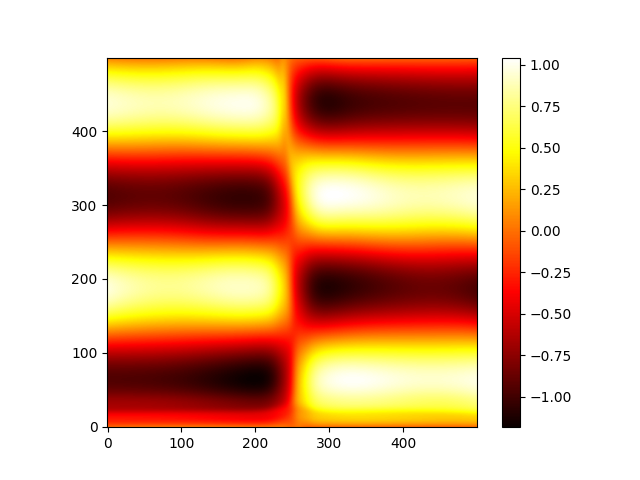
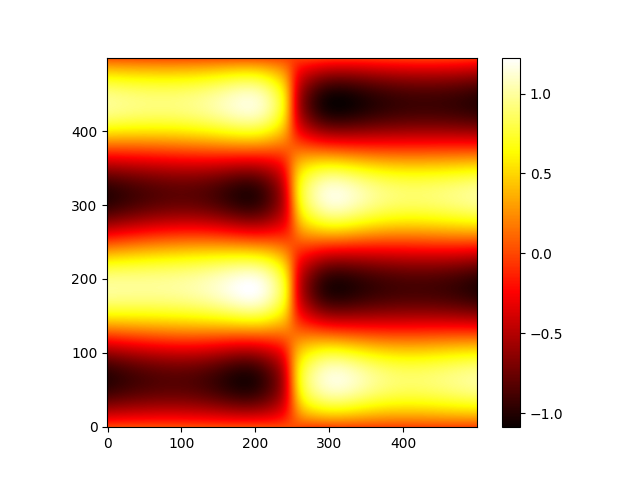
几乎已经完全实现了多态

diff --git a/VPINN/VPINN2d.py b/VPINN/VPINN2d.py
@@ -2,7 +2,7 @@ import torch
 import net_class
 import functools
 import inspect
-import re
+import regex as re
 from tqdm import tqdm
 from Utilities.Integral2d import quad_integral
 from Utilities.lengendre import test_func
@@ -21,7 +21,6 @@ class VPINN:
         self.layer_sizes = layer_sizes
         self.load = load
         if load:
-            # self.net = MLP(layer_sizes).to(device)
             self.net = torch.load('./model/'+load).to(device)
         else:
             self.net = MLP(layer_sizes).to(device)
@@ -55,7 +54,11 @@ class VPINN:
         
         # check whether the laplace function is used
         source_code = inspect.getsource(pde)
-        laplace_term_pattern = r'([-+]? *[\w.]* *\*? *VPINN.laplace\([^)]*\) *(?:\*\* *[\w.]*)?)'
+        
+         
+        laplace_term_pattern = r'\bLAPLACE_TERM\(((?:[^()]|\((?1)\))*)\)'
+        # r'LAPLACE_TERM\(([^"]*)\)'
+        
         laplace_term = re.search(laplace_term_pattern, source_code)
         calls_laplace = bool(laplace_term)
         self.calls_laplace = calls_laplace
@@ -74,7 +77,7 @@ class VPINN:
             x = func_args["x"]
             y = func_args["y"]
             u = func_args["u"]
-            return eval(laplace_term.replace('VPINN.laplace(x, y, u)', 'self.Laplace(x_, y_, u_)'), globals(), {'x_': x, 'y_': y, 'u_': u, 'self': self})
+            return eval(laplace_term.replace('VPINN.laplace(x, y, u)', 'quad_integral.integral(self.Laplace)'), globals(), {'self': self})
         return wrapper
 
     def index2frame(self, index, grid_num):
@@ -91,6 +94,10 @@ class VPINN:
     @staticmethod
     def laplace(x, y, u):
         return torch.zeros_like(x)
+    
+    @staticmethod
+    def LAPLACE_TERM(term):
+        return torch.zeros_like(term)
     
     @staticmethod
     def gradients(u, x, order=1):
@@ -136,7 +143,7 @@ class VPINN:
         if self.calls_laplace == False:
             int1 = quad_integral.integral(self.lhsWrapper) * ((1 / self.grid_num) ** 2)
         else:
-            laplace_conponent = quad_integral.integral(self.pde1) * ((1 / self.grid_num) ** 2)
+            laplace_conponent = self.pde1(None, None, None) * ((1 / self.grid_num) ** 2)
             rest = quad_integral.integral(self.lhsWrapper) * ((1 / self.grid_num) ** 2)
             int1 = laplace_conponent + rest
         

diff --git a/test.py b/test.py
@@ -4,12 +4,12 @@ import re
 
 class VPINN:
     @staticmethod
-    def laplace(x):
-        return x * 2
+    def laplace(x, y, u):
+        return x * y * u
 
     def __init__(self, func):
         source_code = inspect.getsource(func)
-        laplace_term_pattern = r'([-+]? *[\w.]* *\*? *VPINN.laplace\([^)]*\) *(?:\*\* *[\w.]*)?)'
+        laplace_term_pattern = r'\bVPINN.laplace\((.+)\)'
         laplace_term = re.search(laplace_term_pattern, source_code)
         calls_laplace = bool(laplace_term)
 
@@ -22,33 +22,33 @@ class VPINN:
             self.pde1 = None
             self.pde2 = None
 
-    def Laplace(self, x):
-        return x * 2
+    def Laplace(self, x_, y_, u_):
+        return x_ * y_ * u_
 
     def extract_laplace_term(self, func, laplace_term):
         @functools.wraps(func)
         def wrapper(*args, **kwargs):
             func_args = inspect.signature(func).bind(*args, **kwargs).arguments
-            x = func_args["x"]
-            return eval(laplace_term.replace('VPINN.laplace(x)', 'self.Laplace(x)'), globals(), {'x': x, 'self': self})
+            x, y, u = func_args["x"], func_args["y"], func_args["u"]
+            return eval(laplace_term.replace('VPINN.laplace(x, y, u)', '3 * self.Laplace(x, y, u)'), globals(), {'x': x, 'y': y, 'u': u, 'self': self})
         return wrapper
 
     def replace_laplace_with_dummy(self, func):
         @functools.wraps(func)
         def wrapper(*args, **kwargs):
             original_laplace = VPINN.laplace
-            VPINN.laplace = lambda x: 0
+            VPINN.laplace = lambda x, y, u: 0
             result = func(*args, **kwargs)
             VPINN.laplace = original_laplace
             return result
         return wrapper
 
-def example_function(x, y):
-    return x + 3 * VPINN.laplace(x) ** 2
+def example_function(x, y, u):
+    return x + y + u + 3 * VPINN.laplace(x, y, u)
 
 obj = VPINN(example_function)
 if obj.pde is not None:
-    print(obj.pde(5))  # 输出: "Function not available"
+    print(obj.pde(5, 3, 1))  # 输出: "Function not available"
 else:
-    print(obj.pde1(5))  # 输出: 200 (仅包含 Laplace 项)
-    print(obj.pde2(5))  # 输出: 5 (不包含 Laplace 项)
+    print(obj.pde1(5, 3, 1))  # 输出: 45 (仅包含 Laplace 项)
+    print(obj.pde2(5, 3, 1))  # 输出: 

diff --git a/VPINN/test.py b/VPINN/test.py
@@ -6,7 +6,6 @@ import numpy as np
 os.chdir(sys.path[0])
 
 # define the pde and boundary condition
-
 def u(x, y):
     return (0.1 * torch.sin(2 * torch.pi * x) + torch.tanh(10 * x)) * torch.sin(2 * torch.pi * y)
 
@@ -17,7 +16,7 @@ def f(x, y, m=1, n=1, c=0.1, k=10):
     return -(term1 + term2)
 
 def pde(x, y, u):
-    return 5 * VPINN.laplace(x, y, u) - 5 * f(x, y)
+    return VPINN.LAPLACE_TERM(5 * (5 + (VPINN.laplace(x, y, u)))) - 5 * f(x, y) - 25
 
 def transform(x):
     return x
@@ -49,10 +48,10 @@ def bc(boundary_num, device='cpu'):
 
 device = 'cpu'
 # train the model
-vpinn = VPINN([2, 15, 15, 15, 1], pde, bc(80, device=device), Q=10, grid_num=6, test_fcn_num=5, 
+vpinn = VPINN([2, 15, 15, 15, 1], pde, bc(80, device=device), Q=30, grid_num=6, test_fcn_num=5, 
             device=device, load=None)
 net = vpinn.train("Poisson", epoch_num=10000, coef=10)
-# net = vpinn.train(None, epoch_num=0, coef=10)
+net = vpinn.train(None, epoch_num=0, coef=10)
 
 
 # verify
